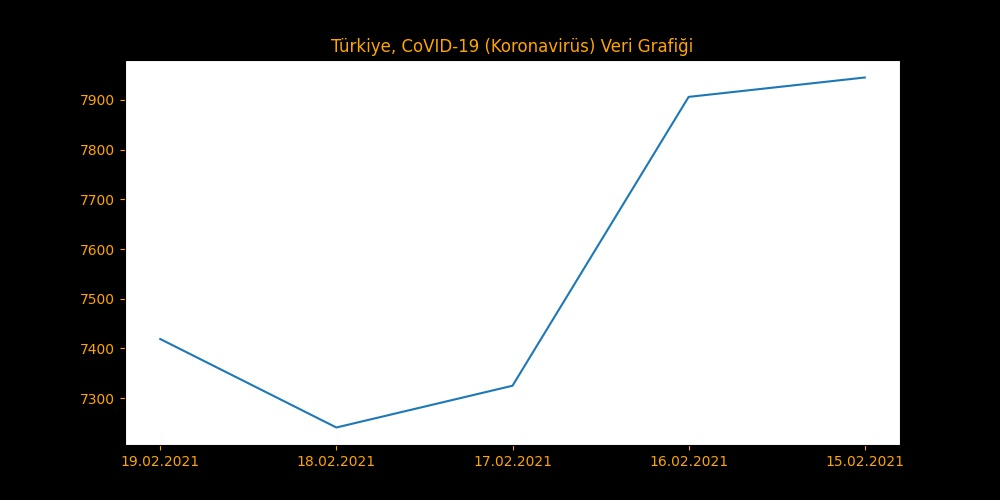
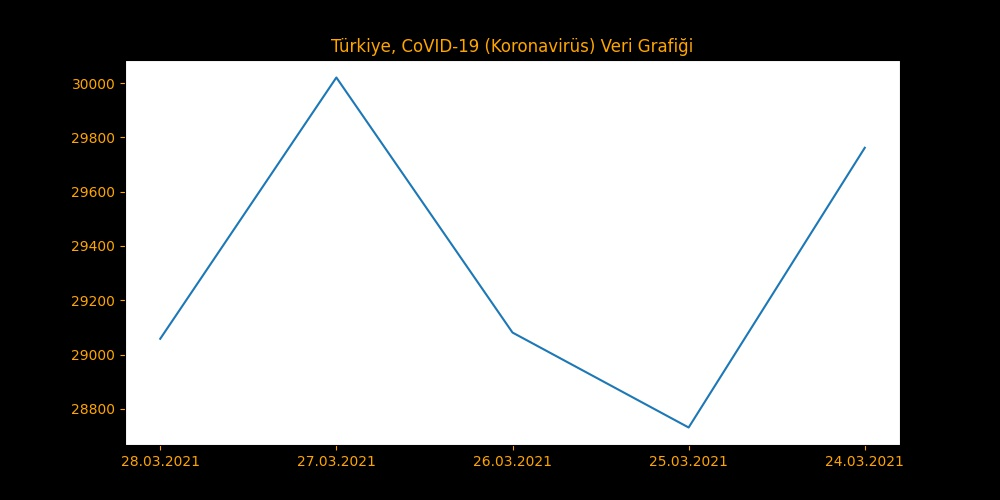
:pencil: 29.03.2021 Update

diff --git a/README_TR.md b/README_TR.md
@@ -11,20 +11,20 @@ Burada, Türkiye'nin [COVID-19 (Koronavirüs) (Hakkında bilgi almak için tıkl
 Not: Bütün veriler, Türkiye Sağlık Bakanlığı'ndan sağlanmaktadır. Eğer veriler güncel değilse, bu büyük ihtimal [devletin web sitesi](https://covid19.saglik.gov.tr) ile alakalıdır. Tamamdır, o zaman başlayalım!
 
 Öncelikle bugünün verileri:
-## :calendar: 19.02.2021 Koronavirüs Verileri:
+## :calendar: 28.03.2021 Koronavirüs Verileri:
 | Veri Tipi         | Bugünün Verileri   | Toplam Veriler     |
 | :---              |    :----           |     :---           |
-| Testler           | 7,419    | 1,377,721    |
-| Hastalar          | 82   | 27,910   |
-| Tedaviler         | 116,674    | 32,174,550    |
-| Vefatlar          | 7,498| 1,415,297|
+| Testler           | 29,058    | 1,983,514    |
+| Hastalar          | 153   | 31,154   |
+| Tedaviler         | 220,109    | 38,057,055    |
+| Vefatlar          | 17,164| 1,870,508|
 
 Not: Doğru "Vaka" sayısı 25.11.2020'den itibaren verilmeye başladığı için toplam veriyi doğru hesaplayamıyoruz...
 
-:clock9: `Son Güncelleme: 20.02.2021 17:36`
+:clock9: `Son Güncelleme: 29.03.2021 20:24`
 \
 \
-Ülkemiz ile alakalı gönderilen verilerde bir gariplik var. Devletin verdiği toplam veriler ile günlük veriler arasında uyuşmazlık mevcut. Eğer her günün verisini birbirine eklersek, Bizim hesaplamamız vakalar için **1246298** tane daha az çıkıyor. Bu, ölümler için **7** , testler için **76384** ve tedavi olanlar için **1096251** . Neden devletimiz böyle bir şey yapıyor anlamıyoruz. YOKSA VERİLER YANLIŞ MI??!?\
+Ülkemiz ile alakalı gönderilen verilerde bir gariplik var. Devletin verdiği toplam veriler ile günlük veriler arasında uyuşmazlık mevcut. Eğer her günün verisini birbirine eklersek, Bizim hesaplamamız vakalar için **1224659** tane daha az çıkıyor. Bu, ölümler için **78** , testler için **179819** ve tedavi olanlar için **1086585** . Neden devletimiz böyle bir şey yapıyor anlamıyoruz. YOKSA VERİLER YANLIŞ MI??!?\
 Neyse tamam, hadi grafikler hakkında konuşalım. Dünle bu günün karşılaştırma grafiği:\
 ![Graph](https://github.com/lysep-corp/COVID-19/blob/master/Graphs/YESTERDAY_COMP_TODAY_TR.jpeg?raw=true)
 

diff --git a/README.md b/README.md
@@ -11,20 +11,20 @@ In this we will gonna show you where is the Turkey going about [COVID-19 Pandemi
 Note: All the data coming from Türk Ministery of Health's public website. If datas are not up-to-date, probably this is about the [goverment's website](https://covid19.saglik.gov.tr) if our server's are not die. Okey, Let's start than!
 
 First today's datas:
-## :calendar: 19.02.2021 Corona virus Datas:
+## :calendar: 28.03.2021 Corona virus Datas:
 | Data Type         | Today's Datas      | All Time Data      |
 | :---              |    :----           |     :---           |
-| Tests             | 116,674    | 32,174,550    |
-| Cases             | 7,419    | 1,377,721    |
-| Cures             | 7,498| 1,415,297|
-| Deaths            | 82   | 27,910   |
+| Tests             | 220,109    | 38,057,055    |
+| Cases             | 29,058    | 1,983,514    |
+| Cures             | 17,164| 1,870,508|
+| Deaths            | 153   | 31,154   |
 
 Note: Correct "Cases" data started on 25.11.2020. So we can't count all time data correctly...
 
-:clock9: `Last Update: 20.02.2021 17:36`
+:clock9: `Last Update: 29.03.2021 20:24`
 \
 \
-There is something weird going on about our country's data. There is a little bit difference about goverment's all time data and daily datas. If we gonna add everyday's data to each other, Our calculation is **1246298** less than the goverment's case calculation. It's **7** for deaths, **76384** for tests and **1096251** for cured person count. We don't know why our country is doing that. ARE THE DATAS WRONG??!?\
+There is something weird going on about our country's data. There is a little bit difference about goverment's all time data and daily datas. If we gonna add everyday's data to each other, Our calculation is **1224659** less than the goverment's case calculation. It's **78** for deaths, **179819** for tests and **1086585** for cured person count. We don't know why our country is doing that. ARE THE DATAS WRONG??!?\
 Okey, let's talk about the graphs. Here is today's data is compare with yesterdays:\
 ![YESTERDAY_COMP_TODAY_EN](https://github.com/lysep-corp/COVID-19/blob/master/Graphs/YESTERDAY_COMP_TODAY_EN.jpeg?raw=true)
 
